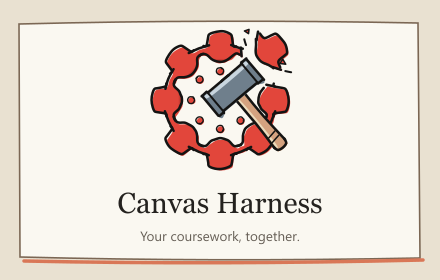
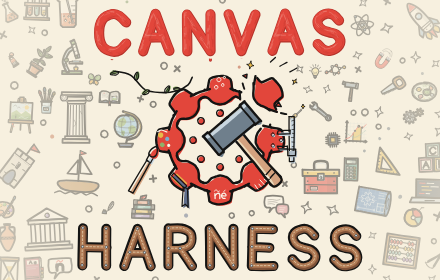
Canvas Harness 2.22.2: grade at the foot of the course card; new store kit
- A shown grade stands at the foot of its course card, above the frame's
  corner drawing, and the lines above it use the full width.
- Store kit: a clearer listing overview, a title slide and four feature
  slides at 1280 x 800, a new small promotional image with quieter
  surroundings, and the 1400 x 560 marquee.
- Version 2.22.2.

diff --git a/extension/popup.html b/extension/popup.html
@@ -1,2 +1,2 @@
 <!doctype html><html lang="en"><head>
-<meta name="author" content="Flzsh"><meta charset="UTF-8"><meta name="viewport" content="width=device-width,initial-scale=1"><title>Canvas Harness</title><link rel="stylesheet" href="popup.css"></head><body><header><img src="icon.svg" width="42" height="42" alt=""><div><h1>Canvas Harness</h1><p>Canvas, within reach.</p></div></header><p class="intro">Direct links to your assignments, grades, and course files. Planning tools are there when you need them.</p><label class="school-url">Canvas address<input id="school-url" type="url" placeholder="https://your-school.instructure.com" autocomplete="url" spellcheck="false"></label><button id="open">Open Canvas dashboard ↗</button><button id="canvas" class="secondary">Open original Canvas</button><label><input id="enabled" type="checkbox"> Enable Canvas Harness on Canvas</label><p id="status" role="status">Changes apply after reloading Canvas.</p><details class="native-appearance"><summary>Canvas page appearance</summary><label>Theme<select data-native="theme" disabled><option value="original">Canvas original</option><option value="light">Light</option></select></label><label>Reading width<select data-native="readingWidth" disabled><option value="comfortable">Comfortable</option><option value="full">Full width</option></select></label><label>Assignment text<select data-native="textSize" disabled><option value="standard">Standard</option><option value="large">Larger</option></select></label><label>Link accent<select data-native="accent" disabled><option value="clay">Clay</option><option value="forest">Forest</option><option value="indigo">Iris</option><option value="ocean">Ocean</option><option value="rose">Rose</option><option value="amber">Amber</option></select></label><p>Choose Light to apply these choices. Saved for Canvas on this device. Teacher documents keep their colors.</p></details><button id="reload-extension" class="secondary">Reload Canvas Harness</button><p class="intro">After reloading the extension, refresh Canvas to activate the update.</p><footer>Canvas Harness 2.22.1<br>Notes stay in this browser. Back them up in Settings.</footer><script src="site.js"></script><script src="native-appearance.js"></script><script src="native-page.js"></script><script src="popup.js"></script></body></html>
+<meta name="author" content="Flzsh"><meta charset="UTF-8"><meta name="viewport" content="width=device-width,initial-scale=1"><title>Canvas Harness</title><link rel="stylesheet" href="popup.css"></head><body><header><img src="icon.svg" width="42" height="42" alt=""><div><h1>Canvas Harness</h1><p>Canvas, within reach.</p></div></header><p class="intro">Direct links to your assignments, grades, and course files. Planning tools are there when you need them.</p><label class="school-url">Canvas address<input id="school-url" type="url" placeholder="https://your-school.instructure.com" autocomplete="url" spellcheck="false"></label><button id="open">Open Canvas dashboard ↗</button><button id="canvas" class="secondary">Open original Canvas</button><label><input id="enabled" type="checkbox"> Enable Canvas Harness on Canvas</label><p id="status" role="status">Changes apply after reloading Canvas.</p><details class="native-appearance"><summary>Canvas page appearance</summary><label>Theme<select data-native="theme" disabled><option value="original">Canvas original</option><option value="light">Light</option></select></label><label>Reading width<select data-native="readingWidth" disabled><option value="comfortable">Comfortable</option><option value="full">Full width</option></select></label><label>Assignment text<select data-native="textSize" disabled><option value="standard">Standard</option><option value="large">Larger</option></select></label><label>Link accent<select data-native="accent" disabled><option value="clay">Clay</option><option value="forest">Forest</option><option value="indigo">Iris</option><option value="ocean">Ocean</option><option value="rose">Rose</option><option value="amber">Amber</option></select></label><p>Choose Light to apply these choices. Saved for Canvas on this device. Teacher documents keep their colors.</p></details><button id="reload-extension" class="secondary">Reload Canvas Harness</button><p class="intro">After reloading the extension, refresh Canvas to activate the update.</p><footer>Canvas Harness 2.22.2<br>Notes stay in this browser. Back them up in Settings.</footer><script src="site.js"></script><script src="native-appearance.js"></script><script src="native-page.js"></script><script src="popup.js"></script></body></html>

diff --git a/extension/widgets.css b/extension/widgets.css
@@ -402,3 +402,7 @@
 /* A module a little shorter than its row: its outline is drawn down to the row's bottom edge, the module itself
    keeps its height (workspace-gestures.js measures that height and must not change it). */
 .rd[data-workspace=work]:not([data-panel-frame=none]) .rd-main.rd-desk > [data-arrange-key]::after {bottom:calc(-1 * var(--rd-panel-grow,0px));}
+/* The grade stands at the foot of the course card, just above the frame's corner drawing, not beside the middle line. */
+.rd .rd-course-rail .rd-rail-course > .rd-grade {top:auto;bottom:calc(var(--rd-rail-pad,10px) + 5px);}
+/* Only the card's last line can meet the grade now, so the lines above it use the full width. */
+.rd .rd-course-rail .rd-rail-course:has(> .rd-grade) .rd-rail-text > small:not(:last-child) {padding-right:0;}

diff --git a/extension/content.js b/extension/content.js
@@ -7,7 +7,7 @@ if(typeof module==='object'&&module.exports&&!globalThis.ReserveSite)require('./
   const isDashboard=location.pathname==='/'||/^\/dashboard\/?$/.test(location.pathname);
   const params=new URLSearchParams(location.search);
   const startup=globalThis.ReserveStartup;
-  const build='2.22.1';
+  const build='2.22.2';
   // Local timings contain only milliseconds, never account or course data.
   // They make real startup measurable without delaying or storing the page.
   const stamp=()=>Math.round(globalThis.performance?.now?.()||0);

diff --git a/docs/TESTING.md b/docs/TESTING.md
@@ -1,8 +1,8 @@
-# Release checks — Canvas Harness 2.22.1
+# Release checks — Canvas Harness 2.22.2
 
 The public suite passes **616 tests**, with no failures. Three optional isolated browser tests are skipped in the standard run. JavaScript syntax, manifest resources, icon dimensions, and package checks pass.
 
-2.22.1 is an efficiency release: no feature changes. It was profiled in the preview page with the CPU slowed six times to stand in for a low-end Chromebook. Showing the workspace again after the account recheck on returning to a tab fell from about 1.8 s to about 0.5 s or less (the workspace is hidden with `content-visibility` while it waits, and still shows nothing until the check passes); style work on an idle page fell by about half. These figures come from the preview, not from a physical Chromebook. It also runs only on real Canvas pages and checks that every version number agrees.
+2.22.2 moves a shown grade to the foot of its course card, above the frame's corner drawing. 2.22.1 is an efficiency release: no feature changes. It was profiled in the preview page with the CPU slowed six times to stand in for a low-end Chromebook. Showing the workspace again after the account recheck on returning to a tab fell from about 1.8 s to about 0.5 s or less (the workspace is hidden with `content-visibility` while it waits, and still shows nothing until the check passes); style work on an idle page fell by about half. These figures come from the preview, not from a physical Chromebook. It also runs only on real Canvas pages and checks that every version number agrees.
 
 The 2.22.0 checks add the Home modules and their arrangement (measured rows, module width, docking a module as a whole row or column), the planner model, the study companion's rewards, and the optional **Open at once** start: off, nothing saved is shown before the account check; on, an early view closes when the check names another account or cannot be made. These parts were exercised in the preview page with sample data.
 

diff --git a/docs/store/README.md b/docs/store/README.md
@@ -12,11 +12,11 @@ Use a public publisher name such as **Flzsh**. Check which contact details each 
 ## Upload
 
 - Run `npm test`, `npm run check`, and `npm run build` from the repository.
-- Upload `dist/Canvas-Harness-2.22.1.zip`. Its `manifest.json` is at the ZIP root. Do not upload the source repository, a personal backup, or the separate Folio test build.
+- Upload `dist/Canvas-Harness-2.22.2.zip`. Its `manifest.json` is at the ZIP root. Do not upload the source repository, a personal backup, or the separate Folio test build.
 - Use [listing.txt](listing.txt) for the description and links. Enter the manifest's actual description where the store derives the short description from the package.
 - Use `icon-128.png` for Chrome and `logo-300.png` for Edge. Both come from the original large Canvas Harness logo.
-- Use `promo-440x280.png` for the small promotional image.
-- Upload the supplied 1280 × 800 screenshots. They show artificial course content in the public preview, never the developer's signed-in school account.
+- Use `promo-440x280.png` for the small promotional image and `marquee-1400x560.png` for the marquee image.
+- Upload the five supplied 1280 × 800 screenshots in their numbered order: the title, then Home modules, Assignments, Planner and Make it yours. They show artificial course content in the public preview, never the developer's signed-in school account.
 - Review [disclosures.md](disclosures.md) against the current dashboard questions and package. Do not select “no user data” merely because there is no developer server.
 - Add [reviewer-notes.md](reviewer-notes.md). Supply only a separately authorized test account if a reviewer requires one; never share your school credentials.
 - Save the listing as a draft, inspect every asset and disclosure, then submit for review when the account and required testing are ready. A successful upload does not mean store approval.

diff --git a/PRIVACY.md b/PRIVACY.md
@@ -1,6 +1,6 @@
 # Canvas Harness privacy
 
-Applies to Canvas Harness 2.22.1. Last updated October 12, 2026.
+Applies to Canvas Harness 2.22.2. Last updated October 12, 2026.
 
 Canvas Harness is a browser extension maintained by Flzsh. It displays information from the Canvas account already signed in on your school's website. It has no developer-operated account service, analytics collector or tracking endpoint in the extension code for this release.
 
